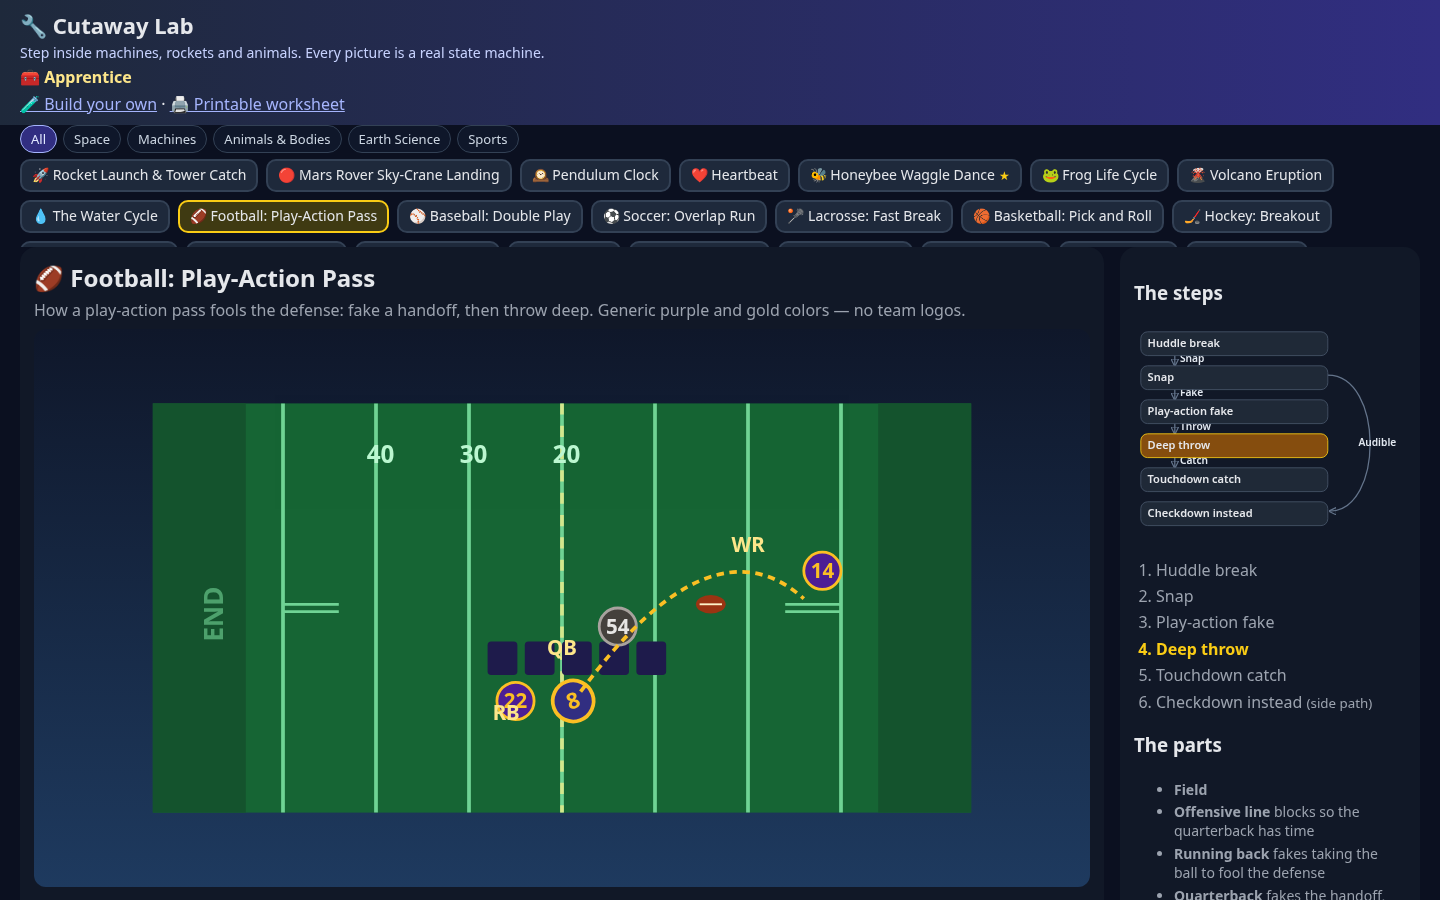
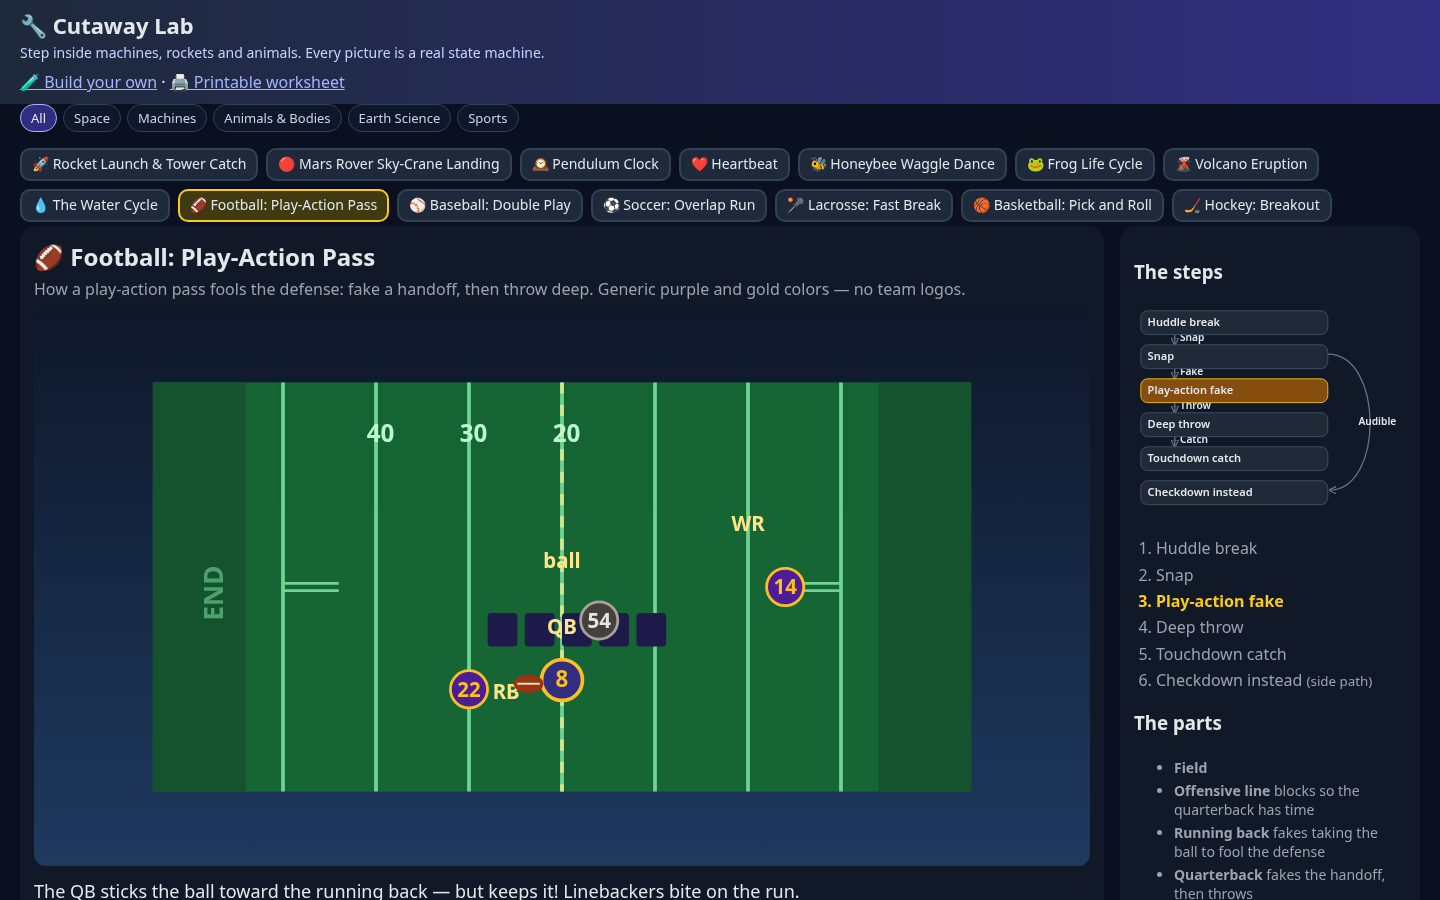
v1.0: soccer + football ball captions

diff --git a/machines/soccer.js b/machines/soccer.js
@@ -14,6 +14,8 @@ export default {
     { id: 'striker', label: 'Striker', job: 'waits in the box for the cut-back', svg: '<circle cx="300" cy="150" r="11" fill="#1e40af" stroke="#fef08a" stroke-width="2"/><text x="300" y="154" text-anchor="middle" fill="#fef08a" font-size="11" font-weight="700">9</text>', explode: [20, -20] },
     { id: 'defender', label: 'Defender', job: 'gets pulled wide by the overlap', svg: '<circle cx="260" cy="180" r="11" fill="#b91c1c" stroke="#fecaca" stroke-width="2"/><text x="260" y="184" text-anchor="middle" fill="#fecaca" font-size="11" font-weight="700">4</text>' },
     { id: 'ball', label: 'Soccer ball', job: 'is passed into the overlap, then cut back', svg: '<circle cx="200" cy="190" r="6" fill="#f8fafc" stroke="#111"/><path d="M200 184 L200 196 M194 190 H206" stroke="#111" stroke-width="1"/>', explode: [0, -40] },
+    { id: 'lblBall', label: 'Ball label',
+      svg: '<text x="200" y="180" text-anchor="middle" fill="#fde68a" font-size="12" font-weight="700">ball</text>' },
     { id: 'lane', label: 'Overlap lane', svg: '<path d="M120 210 Q200 230 280 160" stroke="#fbbf24" stroke-width="2" fill="none" stroke-dasharray="5 4"/>', pose: { opacity: 0 } },
   ],
   states: {

diff --git a/machines/football.js b/machines/football.js
@@ -16,6 +16,8 @@ export default {
     { id: 'wr', label: 'Wide receiver', job: 'runs a deep route and catches the ball', svg: '<circle cx="320" cy="150" r="10" fill="#4c1d95" stroke="#fbbf24" stroke-width="1.5"/><text x="320" y="154" text-anchor="middle" fill="#fbbf24" font-size="11" font-weight="700">14</text>', explode: [40, -20] },
     { id: 'lb', label: 'Linebacker', job: 'steps up for the run fake, leaving space behind', svg: '<circle cx="230" cy="140" r="10" fill="#44403c" stroke="#a8a29e" stroke-width="1.5"/><text x="230" y="144" text-anchor="middle" fill="#e7e5e4" font-size="11" font-weight="700">54</text>' },
     { id: 'ball', label: 'Football', job: 'is snapped, faked, then thrown', svg: '<ellipse cx="200" cy="188" rx="8" ry="5" fill="#9a3412"/><path d="M194 188 H206" stroke="#fef3c7" stroke-width="1"/>', explode: [0, -40] },
+    { id: 'lblBall', label: 'Ball label',
+      svg: '<text x="200" y="140" text-anchor="middle" fill="#fde68a" font-size="11" font-weight="700">ball</text>' },
     { id: 'arrow', label: 'Pass path', svg: '<path d="M210 195 Q280 100 330 145" stroke="#fbbf24" stroke-width="2" fill="none" stroke-dasharray="4 3"/>', pose: { opacity: 0 } },
   ],
   states: {
